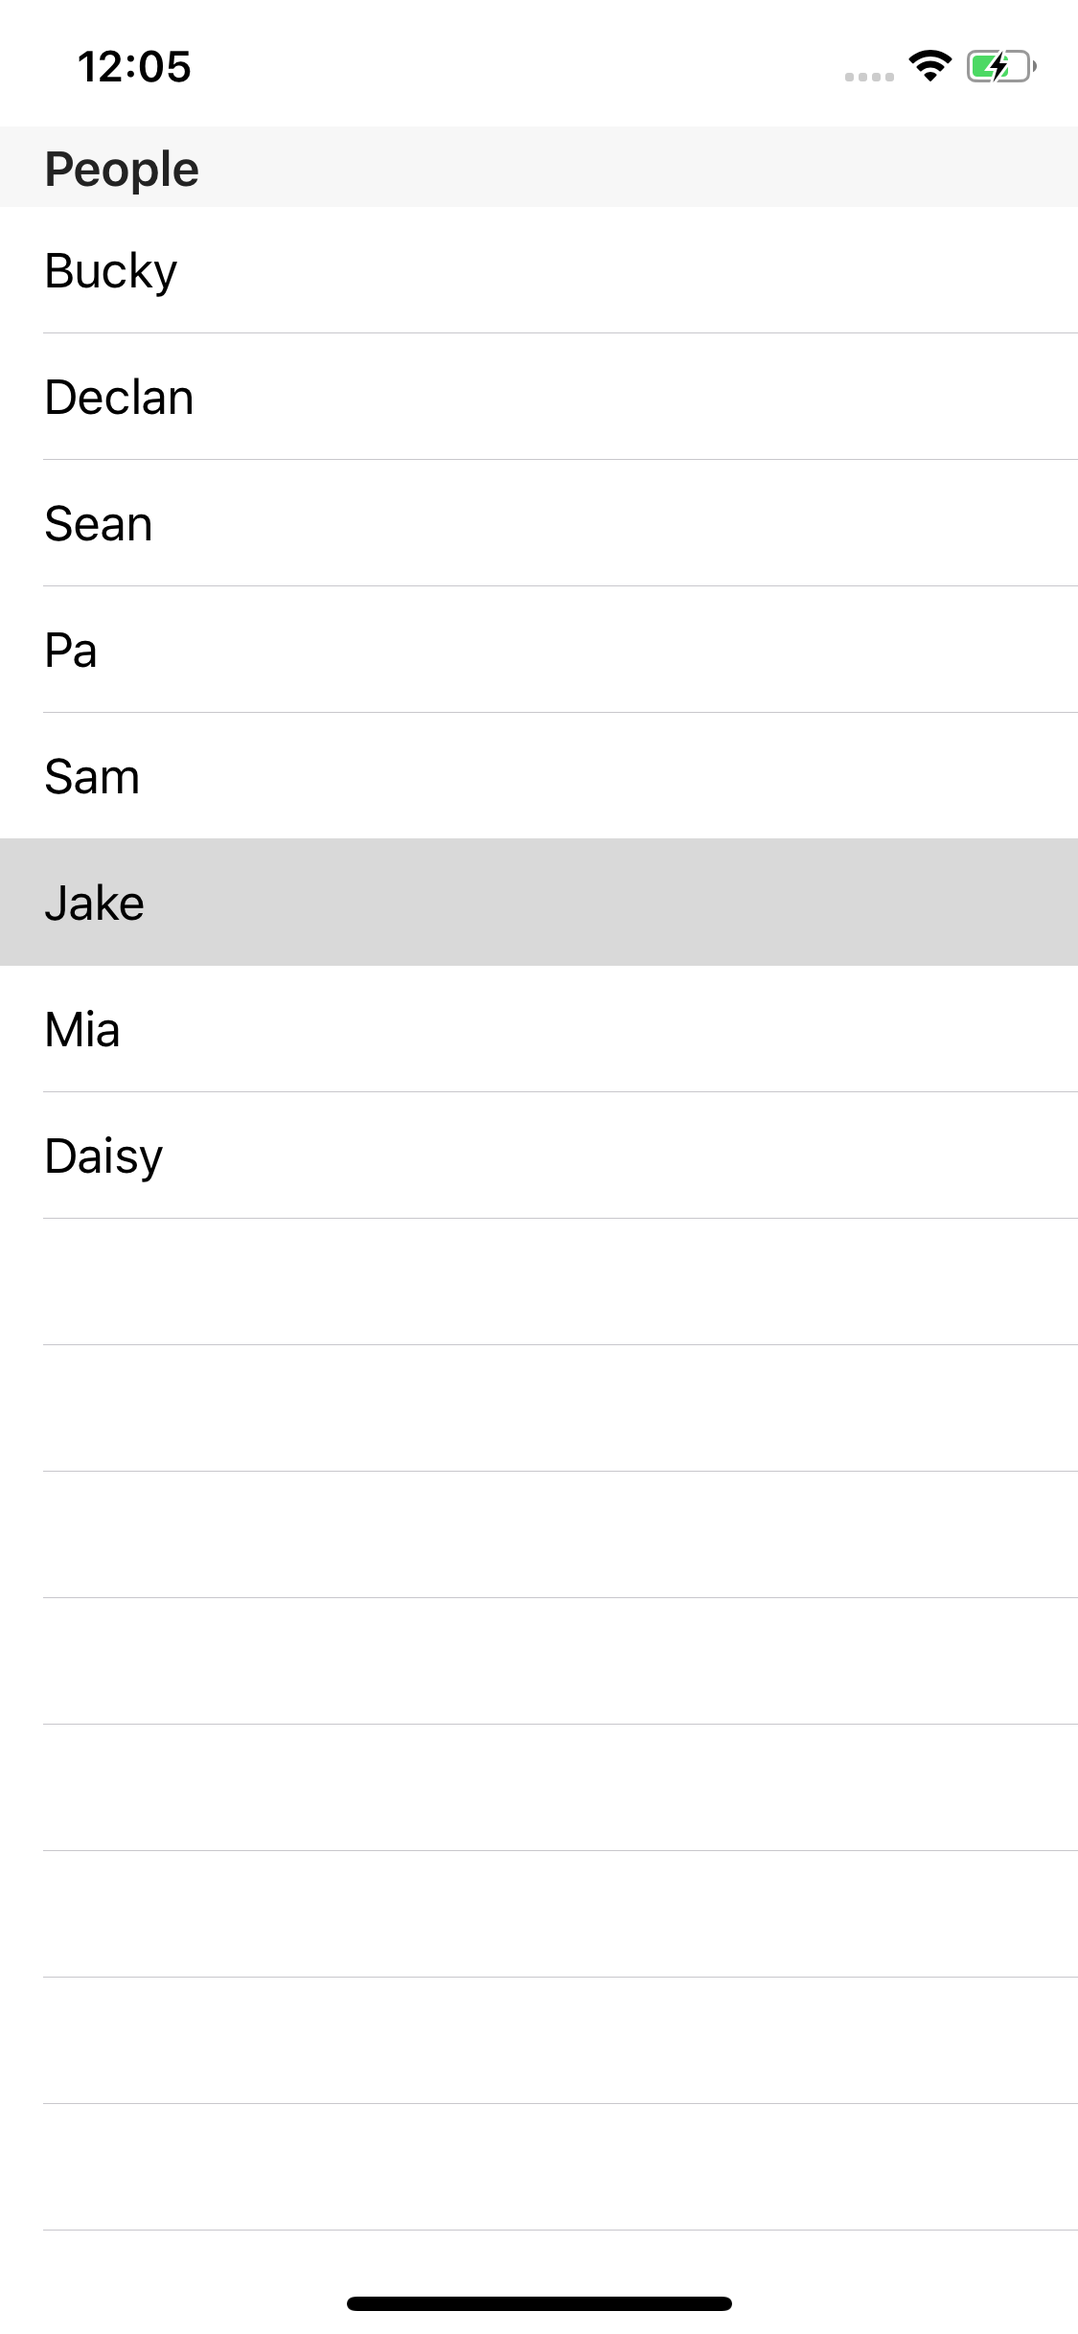
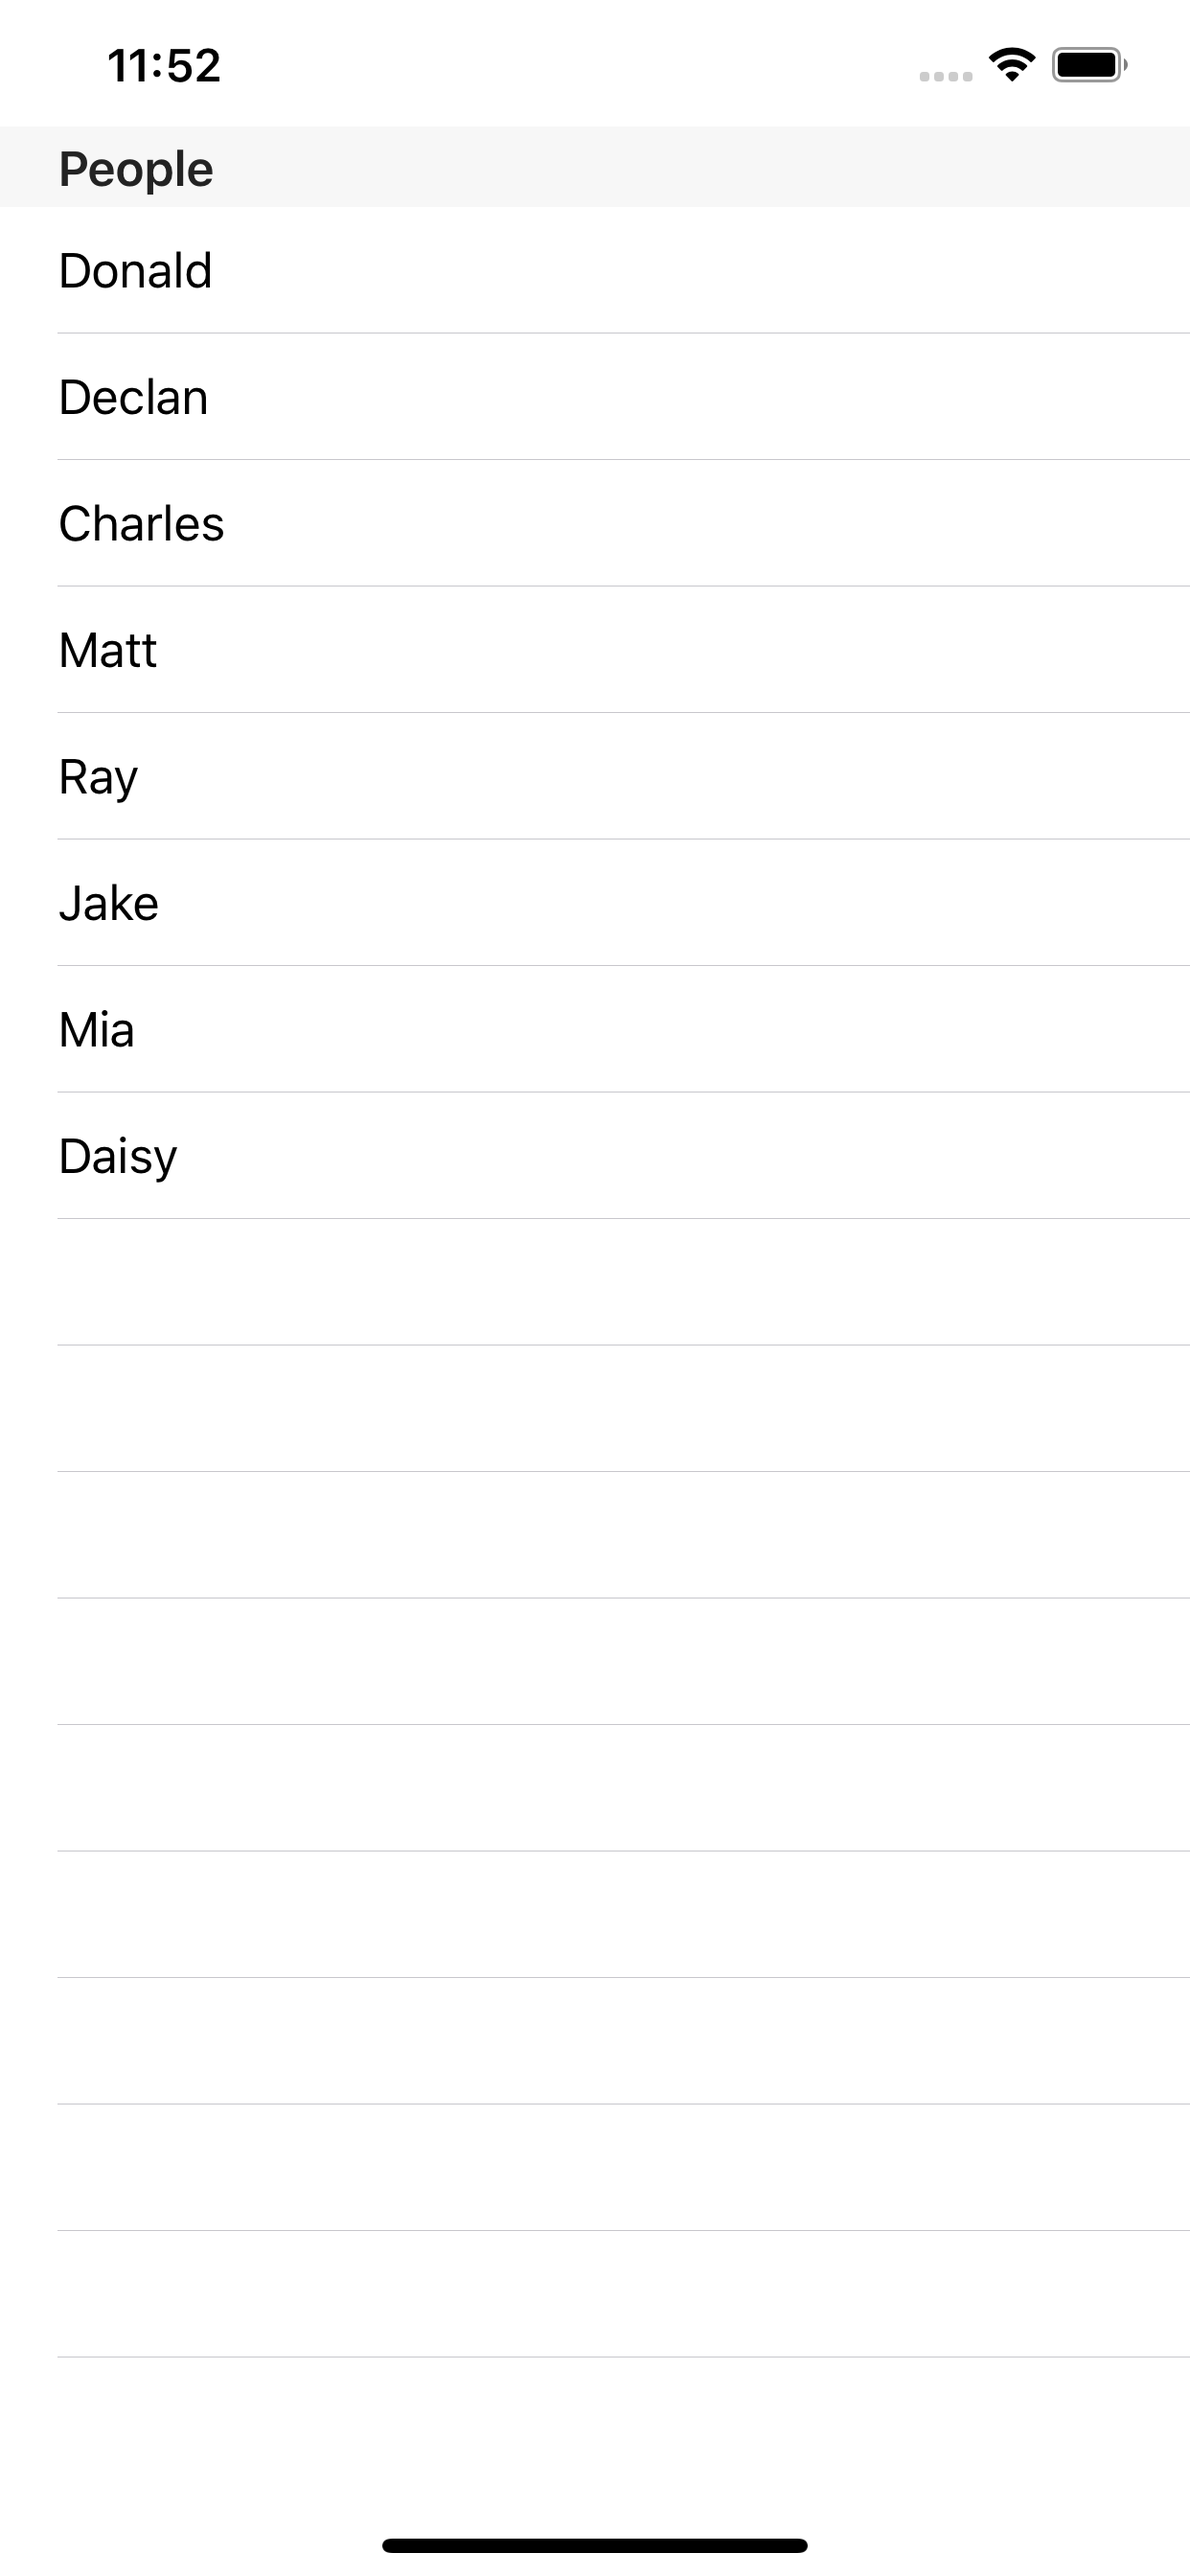
Changed names in table

Changed region(s): [[0.0, 0.0624, 1.0, 0.4992], [0.84, 0.0, 0.9644, 0.0312], [0.0933, 0.0, 0.1867, 0.0312]]

diff --git a/table-view-tutorial/ViewController.swift b/table-view-tutorial/ViewController.swift
@@ -11,7 +11,7 @@ import UIKit
 class ViewController: UIViewController, UITableViewDataSource {
     
     //Array of people names
-    let people = ["Donald", "Declan", "Sean", "Pa", "Sam", "Jake", "Mia", "Daisy"]
+    let people = ["Donald", "Declan", "Charles", "Matt", "Ray", "Jake", "Mia", "Daisy"]
     
     //How many sections
     func numberOfSections(in tableView: UITableView) -> Int {
